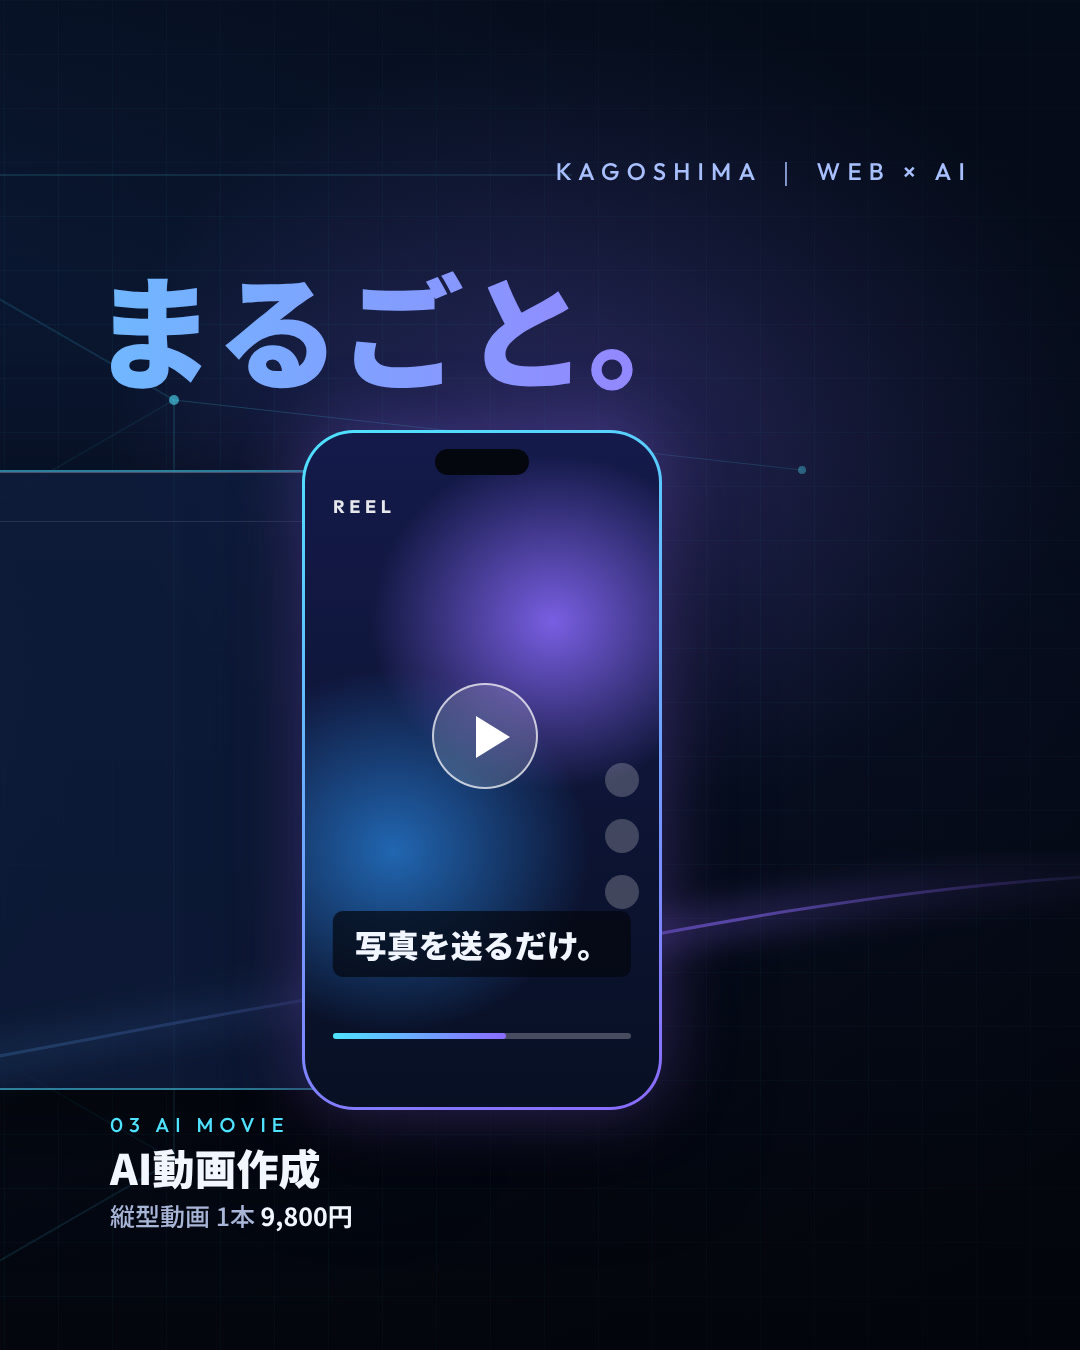
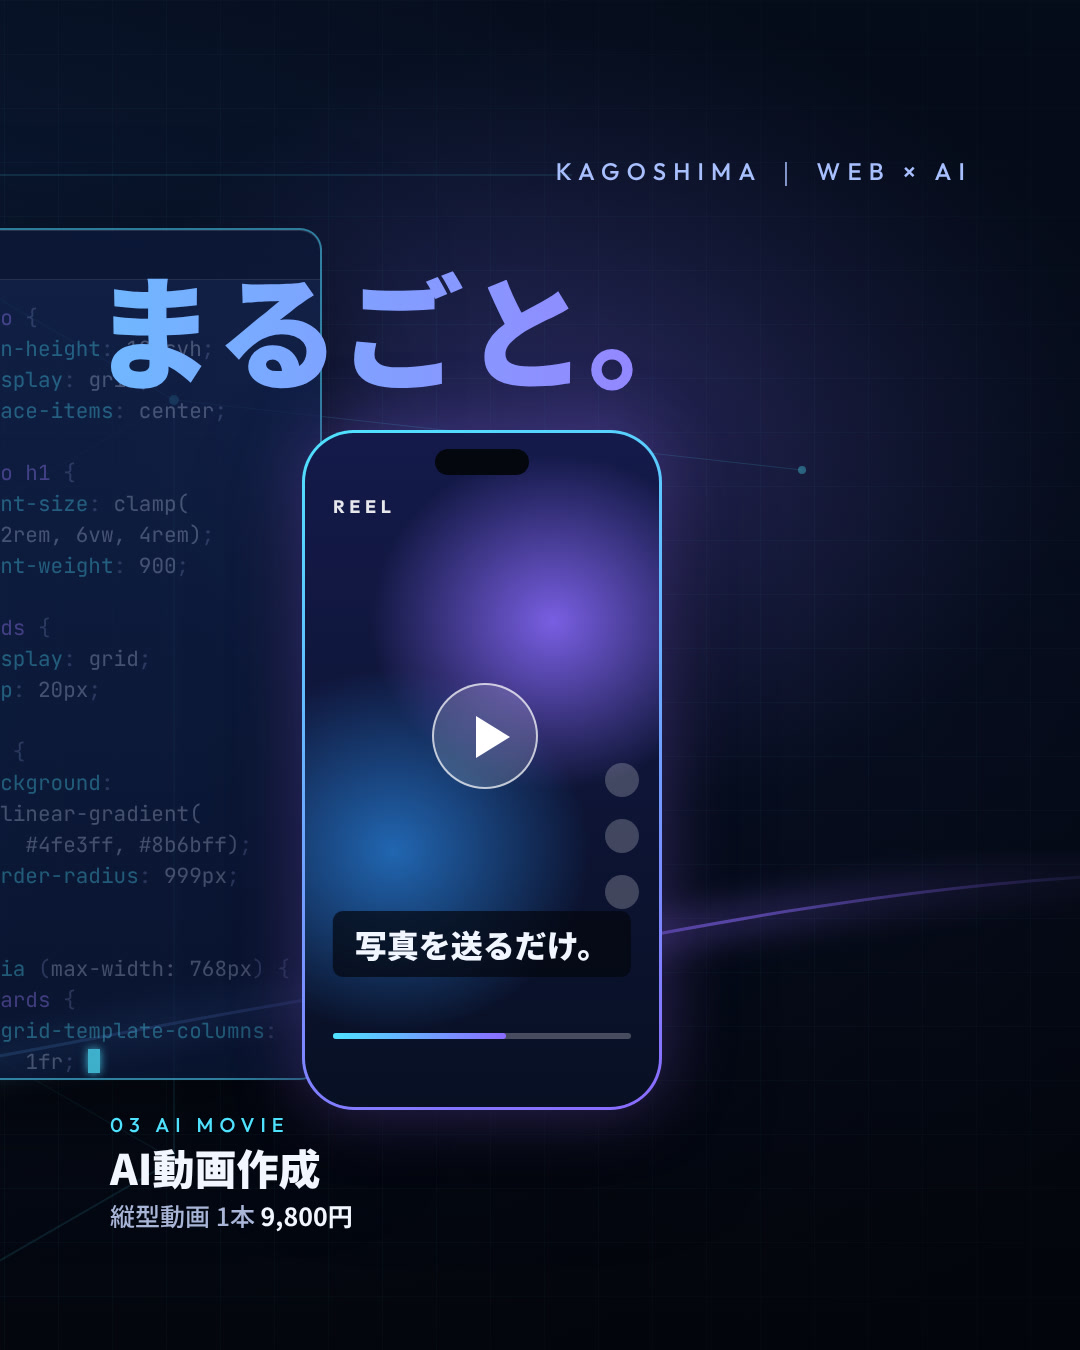
固定3枚: 画面を縦に大きく、コードを打ち込む表現を追加
Claude-Session: https://claude.ai/code/session_01AEUD54a1kfyYiAYXhJ5bzU

diff --git a/img/pinned/pin_master.html b/img/pinned/pin_master.html
@@ -1,6 +1,6 @@
 <!doctype html>
 <html lang="ja"><head><meta charset="utf-8">
-<link href="https://fonts.googleapis.com/css2?family=Noto+Sans+JP:wght@500;700;900&family=Outfit:wght@300;500;700&display=swap" rel="stylesheet">
+<link href="https://fonts.googleapis.com/css2?family=Noto+Sans+JP:wght@500;700;900&family=Outfit:wght@300;500;700&family=JetBrains+Mono:wght@400;500&display=swap" rel="stylesheet">
 <link href="https://fonts.googleapis.com/css2?family=M+PLUS+Rounded+1c:wght@800&text=turtle%20ad&display=swap" rel="stylesheet">
 <style>
 *{margin:0;padding:0;box-sizing:border-box}
@@ -22,22 +22,26 @@ svg.layer{position:absolute;left:0;top:0;width:3128px;height:1350px}
 .logo em{font-style:normal;color:#3CD6F0}
 .tagr{right:108px;top:156px;font-family:'Outfit',sans-serif;font-weight:500;font-size:24px;letter-spacing:.3em;color:#a9c0ff}
 /* browser */
-.br{left:700px;top:470px;width:1730px;height:620px;border-radius:20px;background:rgba(14,28,60,.78);border:2px solid rgba(79,227,255,.5);box-shadow:0 40px 120px rgba(0,0,0,.6), inset 0 1px 0 rgba(255,255,255,.25);overflow:hidden}
-.br .bar{height:50px;border-bottom:1px solid rgba(169,182,216,.16);position:relative}
+.br{left:760px;top:228px;width:1610px;height:852px;border-radius:22px;background:linear-gradient(180deg,rgba(18,34,74,.80),rgba(10,22,52,.82));border:2px solid rgba(79,227,255,.5);box-shadow:0 40px 120px rgba(0,0,0,.6), inset 0 1px 0 rgba(255,255,255,.25);overflow:hidden}
+.br .bar{height:50px;border-bottom:1px solid rgba(169,182,216,.16);position:relative;background:rgba(8,16,40,.5)}
 .br .dots{position:absolute;left:24px;top:19px;display:flex;gap:10px}
 .br .dots i{width:12px;height:12px;border-radius:50%;background:rgba(169,182,216,.3)}
-.br .url{position:absolute;left:614px;top:11px;width:502px;height:28px;border-radius:14px;background:rgba(169,182,216,.10);font-family:'Outfit',sans-serif;font-size:18px;letter-spacing:.06em;color:#a9b6d8;text-align:center;line-height:28px}
-.br .nav{position:absolute;left:450px;top:96px;width:830px;display:flex;justify-content:space-between;align-items:center}
+.br .url{position:absolute;left:554px;top:11px;width:502px;height:28px;border-radius:14px;background:rgba(169,182,216,.10);font-family:'Outfit',sans-serif;font-size:18px;letter-spacing:.06em;color:#a9b6d8;text-align:center;line-height:28px}
+.br .code{position:absolute;left:36px;top:72px;font-family:'JetBrains Mono',monospace;font-size:21px;line-height:31px;color:rgba(169,192,255,.20);white-space:pre}
+.br .code .k{color:rgba(79,227,255,.34)}.br .code .v{color:rgba(155,125,255,.38)}.br .code .s{color:rgba(201,212,240,.30)}
+.br .code.r{left:auto;right:30px;text-align:left}
+.br .code .cur{display:inline-block;width:12px;height:24px;vertical-align:-4px;background:rgba(79,227,255,.75);box-shadow:0 0 10px rgba(79,227,255,.8)}
+.br .nav{position:absolute;left:390px;top:236px;width:830px;display:flex;justify-content:space-between;align-items:center}
 .br .nav .lg{width:120px;height:14px;border-radius:7px;background:linear-gradient(90deg,#c9d4f0,#3CD6F0)}
 .br .nav .mn{display:flex;gap:22px}.br .nav .mn i{display:block;width:62px;height:10px;border-radius:5px;background:rgba(169,182,216,.3)}
-.br .eyebrow{position:absolute;left:450px;top:172px;width:830px;text-align:center;font-family:'Outfit',sans-serif;font-weight:500;font-size:20px;letter-spacing:.32em;color:#4fe3ff}
-.br .ttl{position:absolute;left:450px;top:190px;width:830px;text-align:center;font-weight:900;font-size:66px;line-height:1.22;letter-spacing:.01em}
+.br .ttl{position:absolute;left:390px;top:300px;width:830px;text-align:center;font-weight:900;font-size:68px;line-height:1.22;letter-spacing:.01em}
 .br .ttl span{background:linear-gradient(90deg,#c9d4f0,#3CD6F0 55%,#8b6bff);-webkit-background-clip:text;background-clip:text;color:transparent}
-.br .lead{position:absolute;left:615px;top:396px;width:500px}
+.br .ttl .caret{display:inline-block;width:8px;height:64px;margin-left:8px;vertical-align:-8px;background:#4fe3ff;box-shadow:0 0 16px #4fe3ff,0 0 32px rgba(79,227,255,.6)}
+.br .lead{position:absolute;left:555px;top:490px;width:500px}
 .br .lead i{display:block;height:10px;border-radius:5px;background:rgba(169,182,216,.28);margin:0 auto 10px}
-.br .cta{position:absolute;left:765px;top:452px;width:200px;height:46px;border-radius:23px;background:linear-gradient(90deg,#4fe3ff,#8b6bff);box-shadow:0 0 30px rgba(79,227,255,.35)}
-.br .cards{position:absolute;left:470px;top:530px;display:flex;gap:20px}
-.br .cards i{display:block;width:250px;height:120px;border-radius:12px;border:1px solid rgba(79,227,255,.25);background:linear-gradient(160deg,rgba(79,227,255,.10),rgba(139,107,255,.08))}
+.br .cta{position:absolute;left:705px;top:548px;width:200px;height:46px;border-radius:23px;background:linear-gradient(90deg,#4fe3ff,#8b6bff);box-shadow:0 0 30px rgba(79,227,255,.35)}
+.br .cards{position:absolute;left:410px;top:640px;display:flex;gap:20px}
+.br .cards i{display:block;width:250px;height:150px;border-radius:12px;border:1px solid rgba(79,227,255,.25);background:linear-gradient(160deg,rgba(79,227,255,.12),rgba(139,107,255,.08))}
 /* chat */
 .chat{left:150px;top:600px;width:750px;height:450px;border-radius:22px;background:rgba(16,30,64,.9);border:1.5px solid rgba(79,227,255,.6);box-shadow:0 0 60px rgba(79,227,255,.25), 0 30px 80px rgba(0,0,0,.55), inset 0 1px 0 rgba(255,255,255,.2);padding:28px 34px}
 .chat .hd{display:flex;align-items:center;gap:12px;font-family:'Outfit',sans-serif;font-weight:700;font-size:20px;letter-spacing:.24em;color:#a9c0ff}
@@ -97,8 +101,56 @@ svg.layer{position:absolute;left:0;top:0;width:3128px;height:1350px}
 <!-- browser (center, crosses both seams) -->
 <div class="ab br">
  <div class="bar"><div class="dots"><i></i><i></i><i></i></div><div class="url">turtle-ad.com</div></div>
+ <div class="code"><span class="k">&lt;section</span> <span class="v">class</span>=<span class="s">"hero"</span><span class="k">&gt;</span>
+  <span class="k">&lt;p</span> <span class="v">class</span>=<span class="s">"area"</span><span class="k">&gt;</span>KAGOSHIMA<span class="k">&lt;/p&gt;</span>
+  <span class="k">&lt;h1&gt;</span>ひと目で伝わる、
+      ホームページ。<span class="k">&lt;/h1&gt;</span>
+  <span class="k">&lt;p</span> <span class="v">class</span>=<span class="s">"lead"</span><span class="k">&gt;</span>
+    お店の想いを、
+    まっすぐ届ける。
+  <span class="k">&lt;/p&gt;</span>
+  <span class="k">&lt;a</span> <span class="v">href</span>=<span class="s">"#contact"</span><span class="k">&gt;</span>相談する<span class="k">&lt;/a&gt;</span>
+<span class="k">&lt;/section&gt;</span>
+
+<span class="k">&lt;section</span> <span class="v">id</span>=<span class="s">"menu"</span><span class="k">&gt;</span>
+  <span class="k">&lt;h2&gt;</span>おすすめ<span class="k">&lt;/h2&gt;</span>
+  <span class="k">&lt;ul</span> <span class="v">class</span>=<span class="s">"cards"</span><span class="k">&gt;</span>
+    <span class="k">&lt;li&gt;</span>季節の限定<span class="k">&lt;/li&gt;</span>
+    <span class="k">&lt;li&gt;</span>人気No.1<span class="k">&lt;/li&gt;</span>
+    <span class="k">&lt;li&gt;</span>ご予約<span class="k">&lt;/li&gt;</span>
+  <span class="k">&lt;/ul&gt;</span>
+<span class="k">&lt;/section&gt;</span>
+
+<span class="k">&lt;footer&gt;</span>
+  <span class="k">&lt;p&gt;</span>鹿児島市<span class="k">&lt;/p&gt;</span>
+<span class="k">&lt;/footer&gt;</span></div>
+ <div class="code r"><span class="v">.hero</span> {
+  <span class="k">min-height</span>: <span class="s">100svh</span>;
+  <span class="k">display</span>: <span class="s">grid</span>;
+  <span class="k">place-items</span>: <span class="s">center</span>;
+}
+<span class="v">.hero h1</span> {
+  <span class="k">font-size</span>: <span class="s">clamp(</span>
+    <span class="s">2rem, 6vw, 4rem)</span>;
+  <span class="k">font-weight</span>: <span class="s">900</span>;
+}
+<span class="v">.cards</span> {
+  <span class="k">display</span>: <span class="s">grid</span>;
+  <span class="k">gap</span>: <span class="s">20px</span>;
+}
+<span class="v">.btn</span> {
+  <span class="k">background</span>:
+    <span class="s">linear-gradient(</span>
+      <span class="s">#4fe3ff, #8b6bff)</span>;
+  <span class="k">border-radius</span>: <span class="s">999px</span>;
+}
+
+<span class="k">@media</span> (<span class="s">max-width: 768px</span>) {
+  <span class="v">.cards</span> {
+    <span class="k">grid-template-columns</span>:
+      <span class="s">1fr</span>; <span class="cur"></span></div>
  <div class="nav"><div class="lg"></div><div class="mn"><i></i><i></i><i></i><i></i></div></div>
- <div class="ttl"><span>ひと目で伝わる、</span><br>ホームページ。</div>
+ <div class="ttl"><span>ひと目で伝わる、</span><br>ホームページ。<i class="caret"></i></div>
  <div class="lead"><i style="width:460px"></i><i style="width:360px"></i></div>
  <div class="cta"></div>
  <div class="cards"><i></i><i></i><i></i></div>
